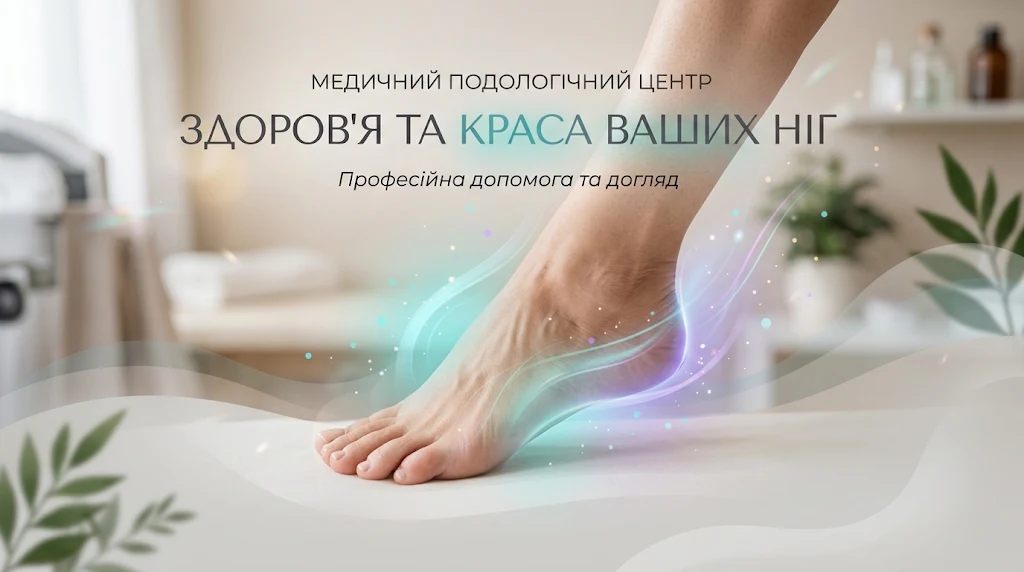
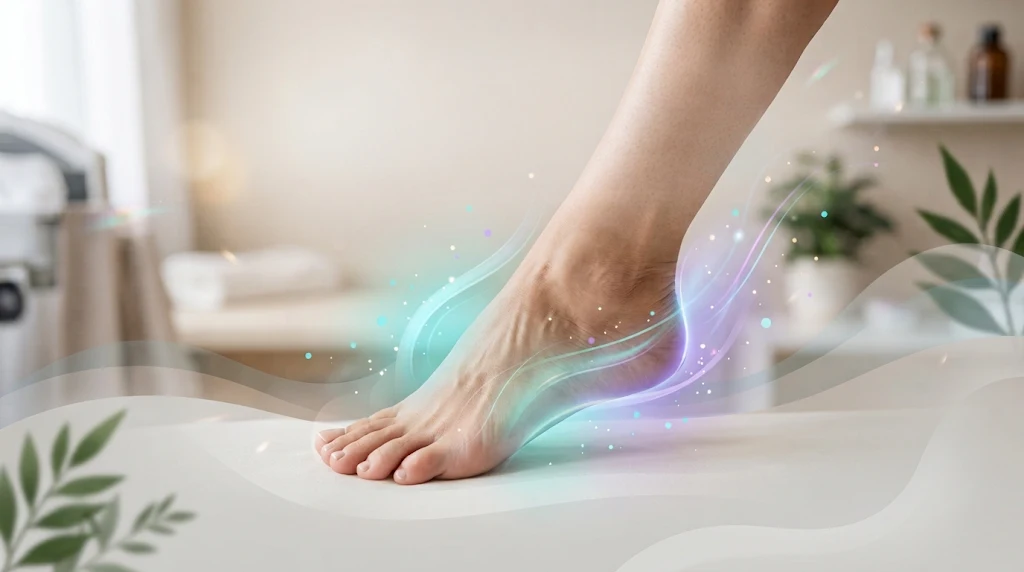
Фон головного екрану без тексту, зсув нижче від шапки
Claude-Session: https://claude.ai/code/session_01FcEaxfReEsN8vSqwwzgMrA

Changed region(s): [[0.1875, 0.1189, 0.8125, 0.3269]]

diff --git a/public/styles.css b/public/styles.css
@@ -71,7 +71,7 @@ a { color: inherit; text-decoration: none; }
   display: grid; grid-template-columns: 1.1fr 0.9fr; gap: 64px; padding: 56px 64px 24px;
   background:
     linear-gradient(rgba(247, 245, 240, 0.85), rgba(247, 245, 240, 0.85)),
-    url('img/hero.webp') center / cover no-repeat;
+    url('img/hero.webp') center top / cover no-repeat;
   border-radius: 24px;
 }
 .hero-text { display: flex; flex-direction: column; gap: 22px; }
